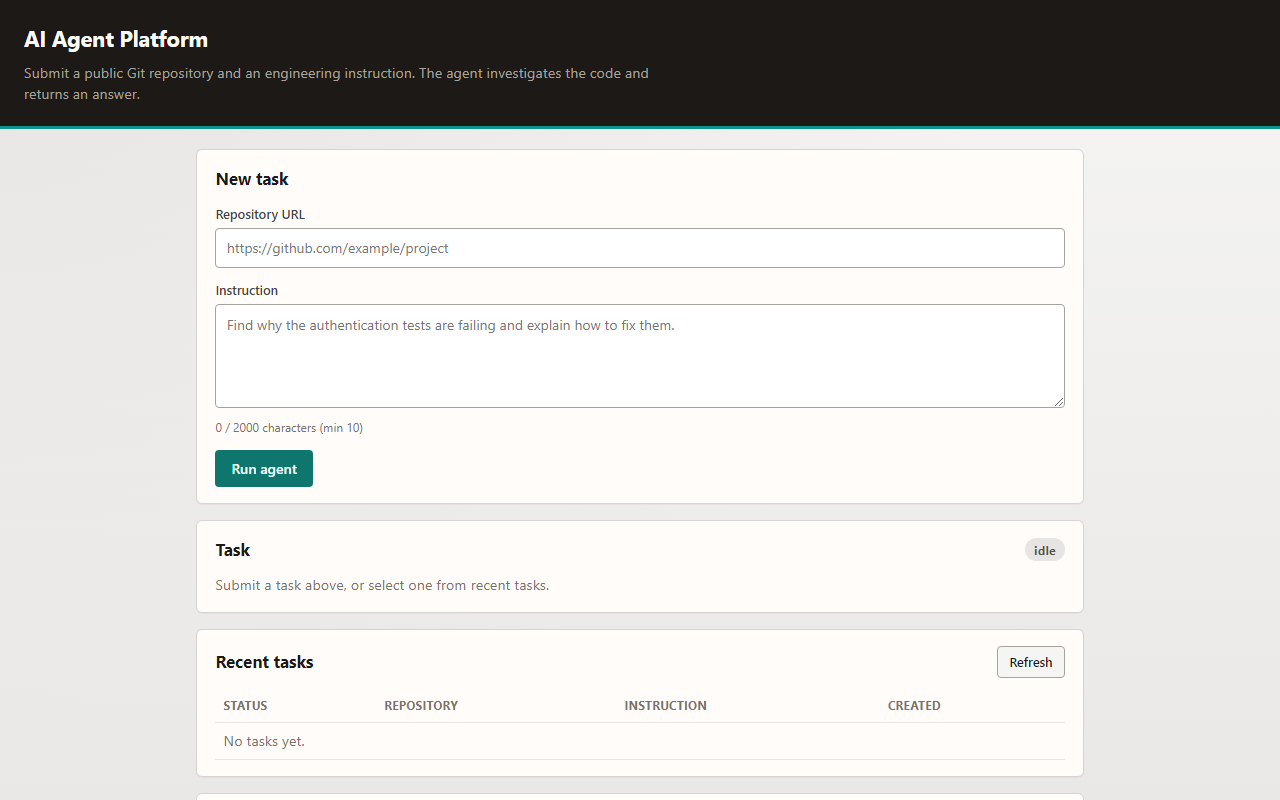
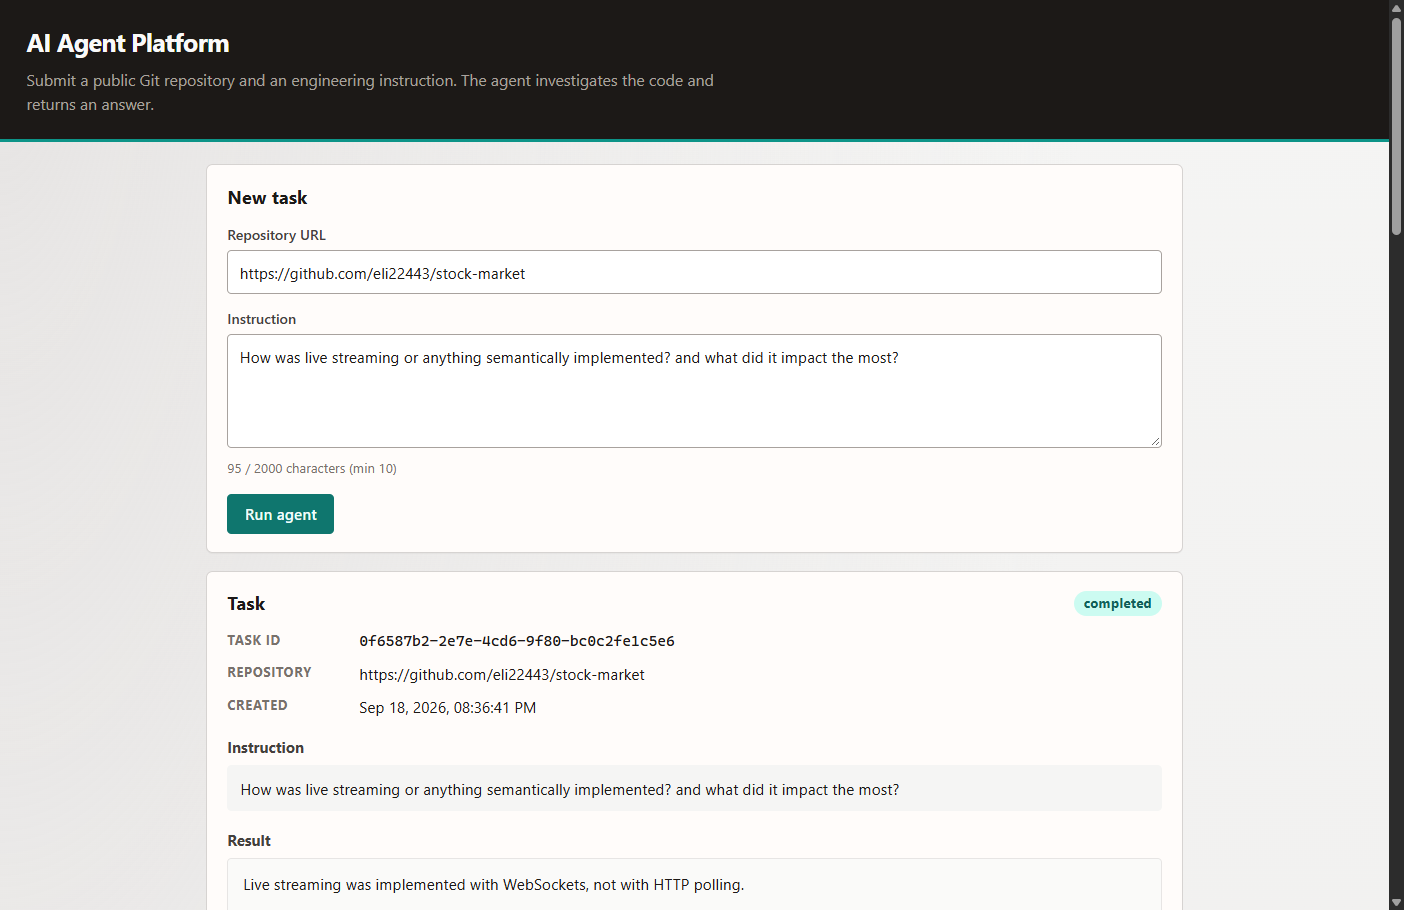
edited docs

diff --git a/README.md b/README.md
@@ -4,7 +4,9 @@ A deployed AI agent that asynchronously analyzes public Git repositories with LL
 
 **Live demo:** [https://api.airepoagent.app](https://api.airepoagent.app) · [Swagger](https://api.airepoagent.app/docs) · [Health](https://api.airepoagent.app/health)
 
-![Demo UI](docs/assets/demo-ui.png)
+![Demo UI — completed task](docs/assets/demo-ui.png)
+
+![Demo result — grounded answer with citations](docs/assets/demo-result.png)
 
 ```text
 Repository:  https://github.com/example/project
